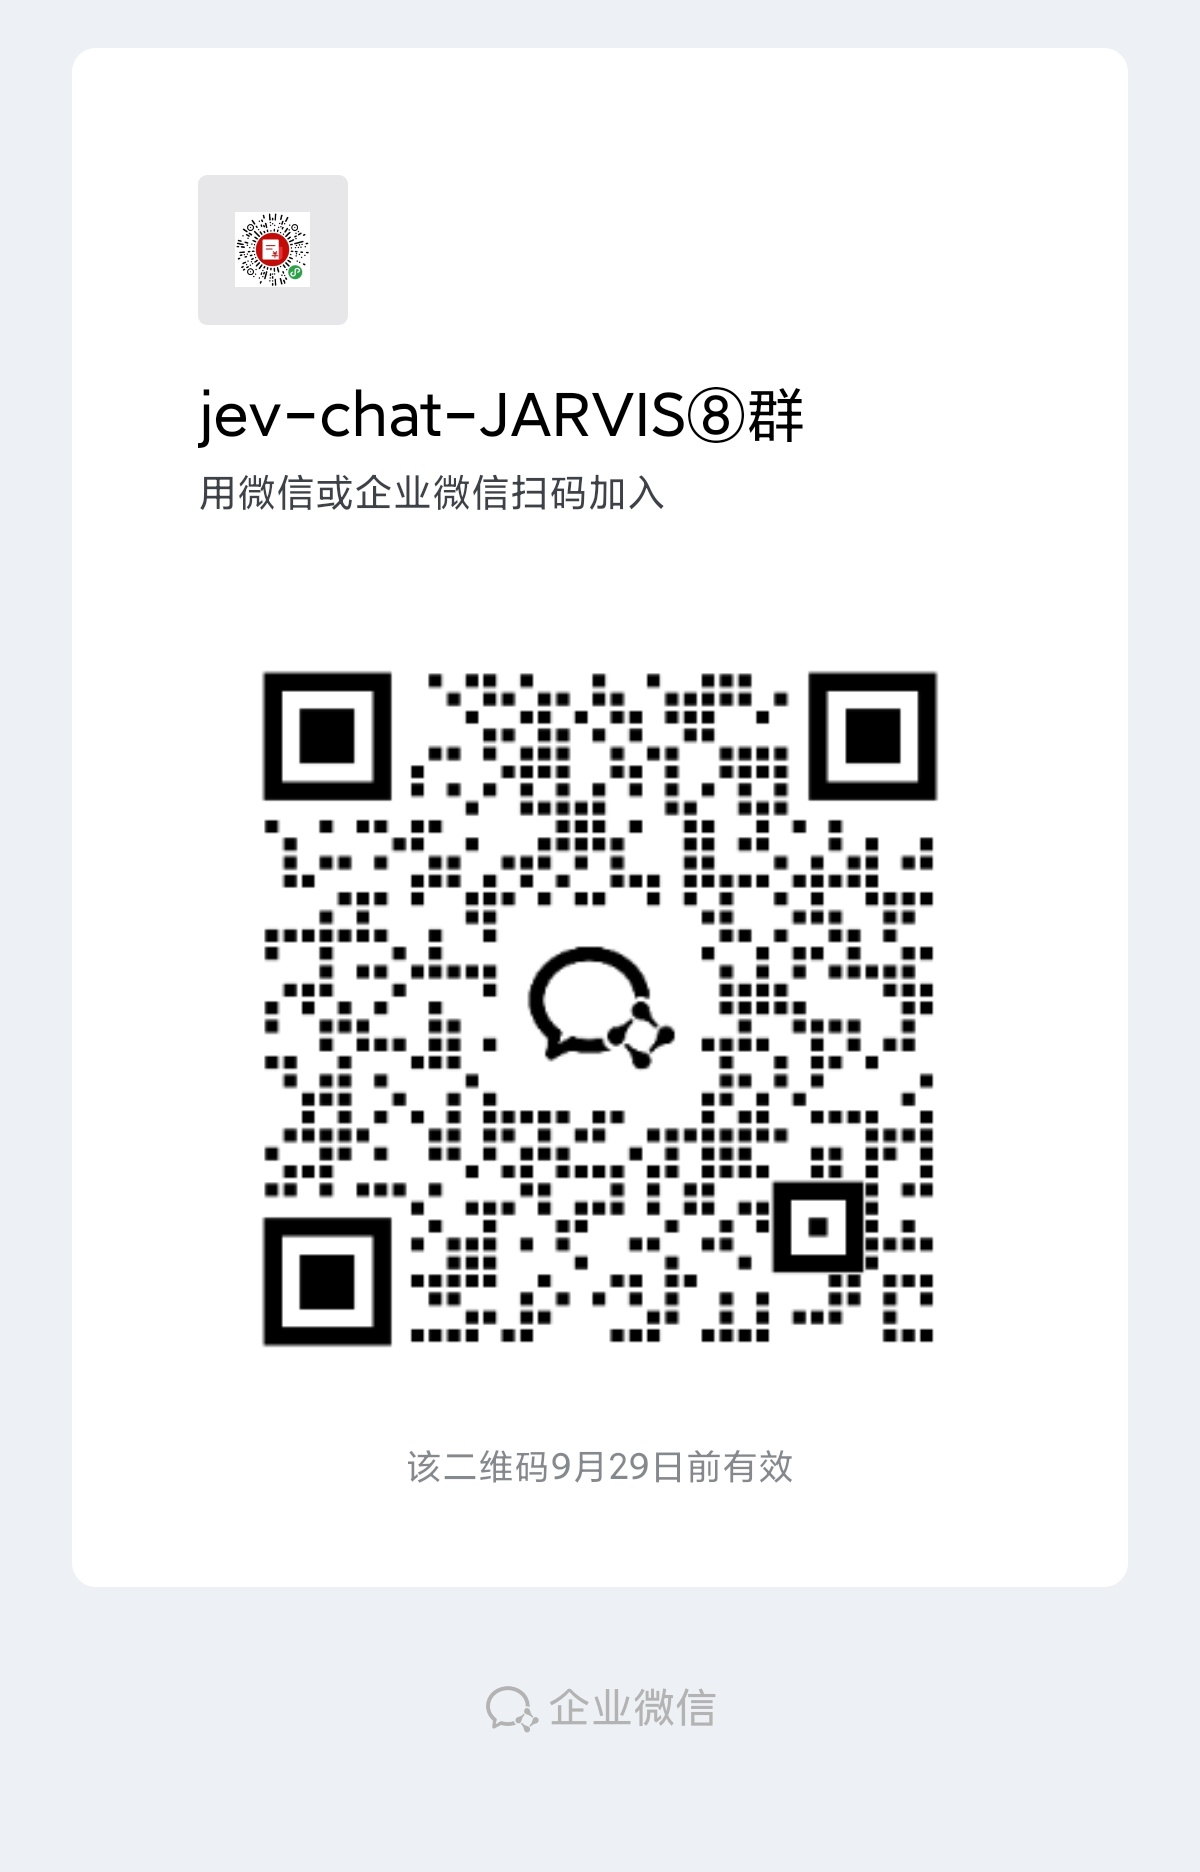
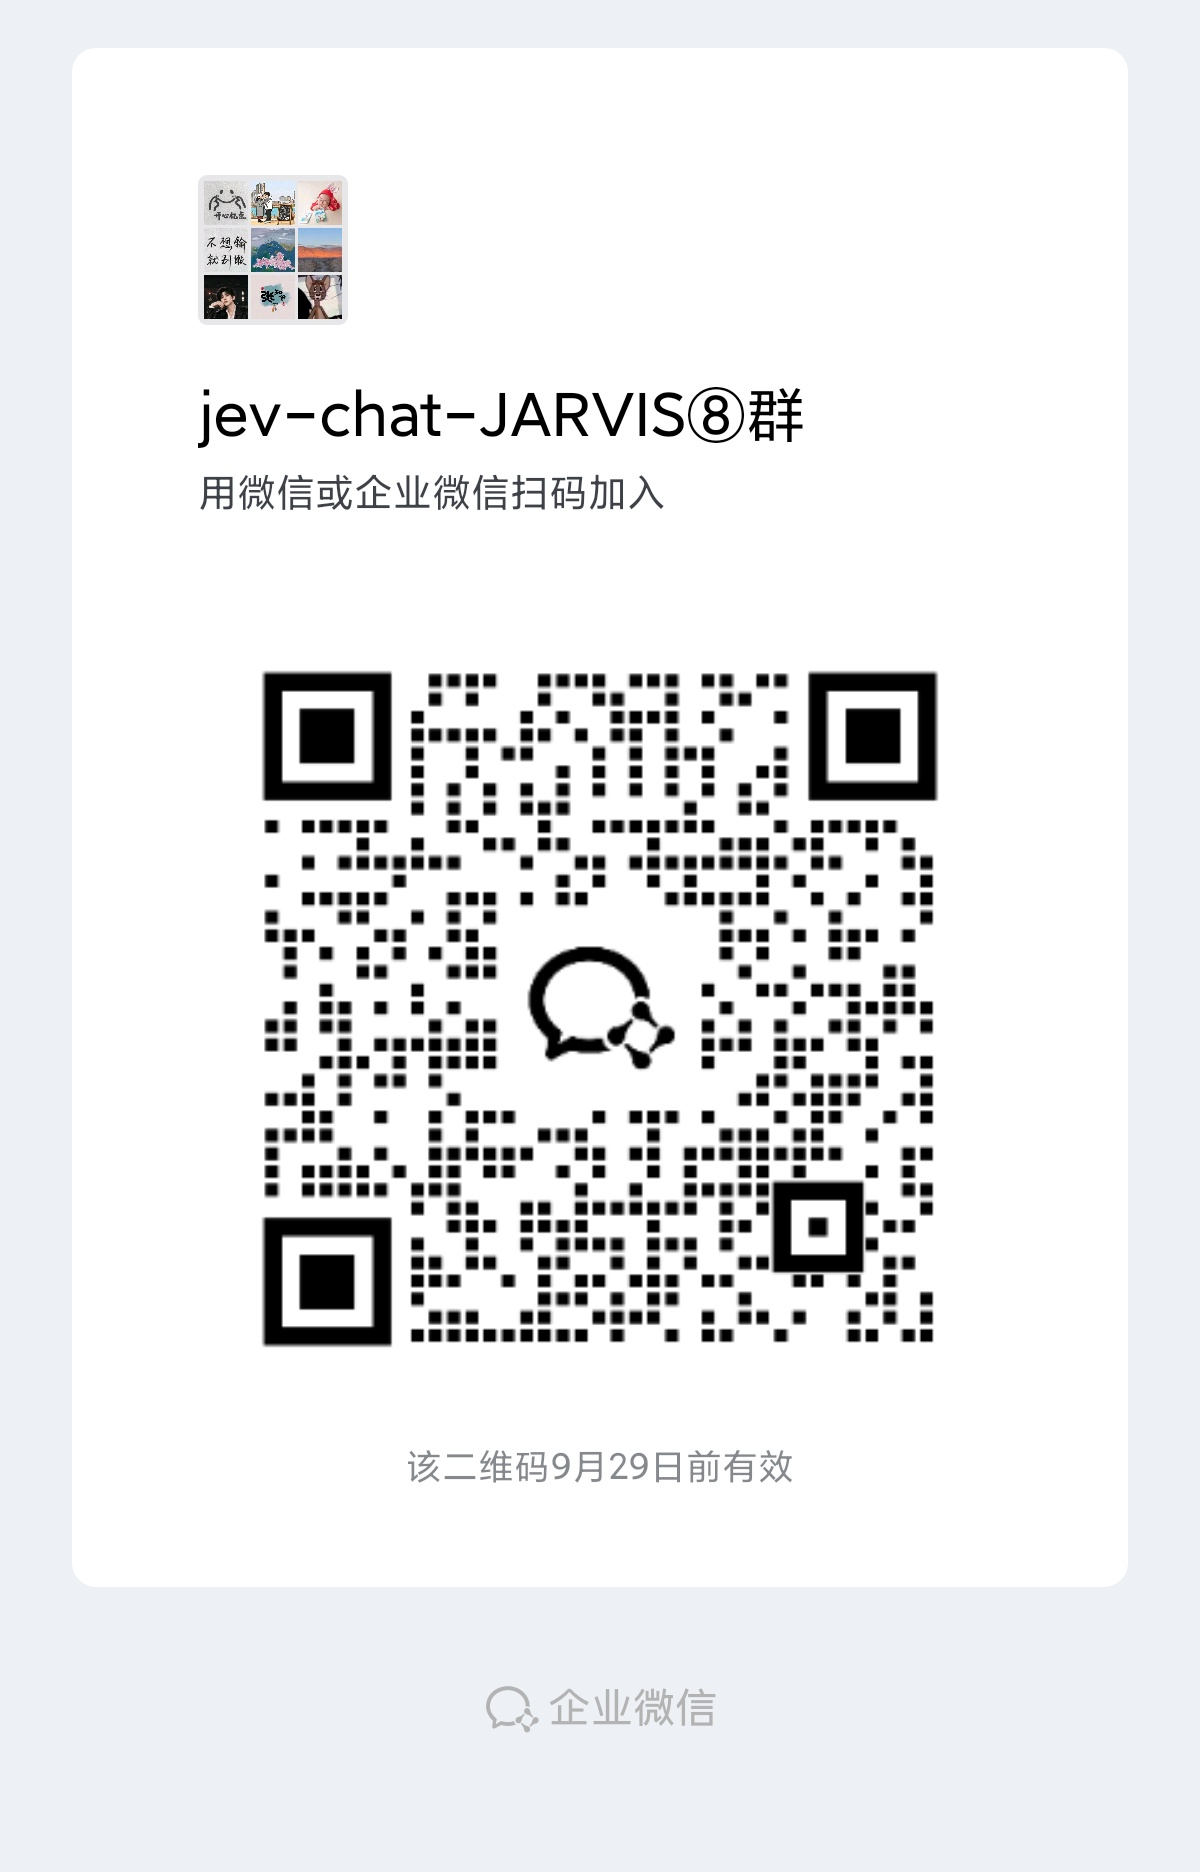
docs: 换回正确的 8 群码并加 9 群

Changed region(s): [[0.2158, 0.3408, 0.8017, 0.7436], [0.1542, 0.0929, 0.3083, 0.1859]]

diff --git a/README.md b/README.md
@@ -245,11 +245,12 @@ JDK 17 + Android SDK（platform 35 / build-tools 35）。
 
 <p align="center"><img src="docs/images/wechat-mp.png" width="180" alt="公众号二维码" /></p>
 
-想听真实需求：你在哪个聊天 App 上最想要这个副驾？希望它判断什么、怎么提示、什么绝对不能碰？扫码进群直接说。**1 至 6 群已满，不要再扫；7、8 群任选一个，请勿重复加入。**
+想听真实需求：你在哪个聊天 App 上最想要这个副驾？希望它判断什么、怎么提示、什么绝对不能碰？扫码进群直接说。**1 至 6 群已满，不要再扫；7、8、9 群任选一个，请勿重复加入。**
 
 <table align="center"><tr>
   <td align="center"><img src="docs/images/wechat-group-7.png" width="180" alt="7 群" /><br/><b>7 群</b></td>
   <td align="center"><img src="docs/images/wechat-group-8.png" width="180" alt="8 群" /><br/><b>8 群</b></td>
+  <td align="center"><img src="docs/images/wechat-group-9.png" width="180" alt="9 群" /><br/><b>9 群</b></td>
 </tr></table>
 
 <p align="center"><sub>以下六群已满，请勿再扫：</sub></p>
